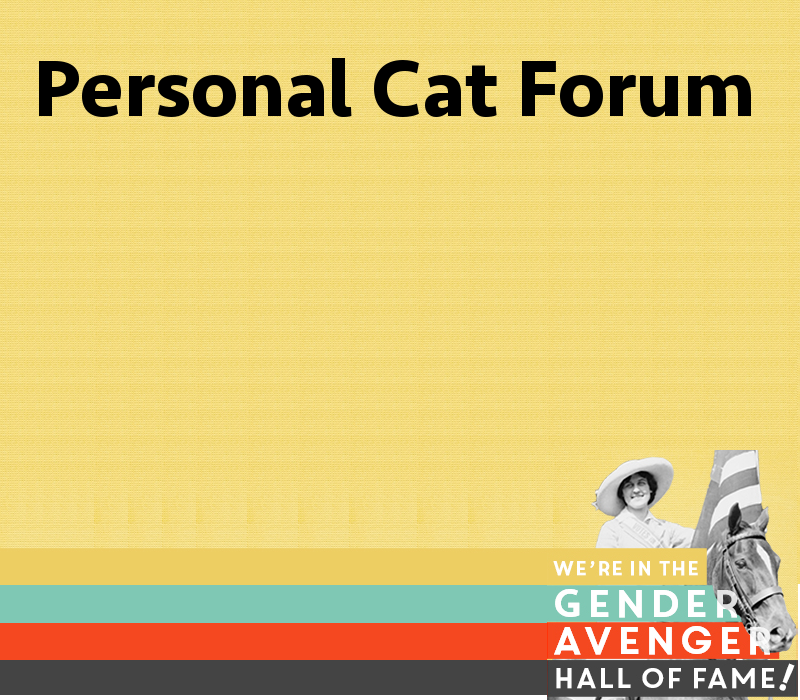
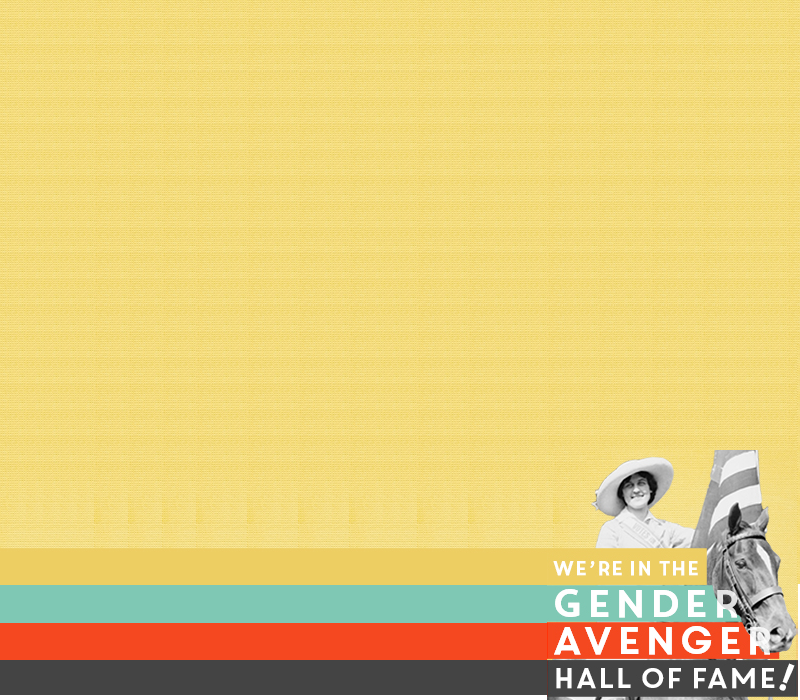
generate label for card

Changed region(s): [[0.4688, 0.09, 0.9375, 0.18], [0.0312, 0.06, 0.4375, 0.18]]

diff --git a/routes/index.js b/routes/index.js
@@ -16,8 +16,9 @@ exports.report = function (req, res) {
 
 ///// SUBMIT FORM TO THIS PAGE
 exports.submit = function (req, res) {
- var men = req.body.men,
-     women = req.body.women;
+ var men        = req.body.men,
+     women      = req.body.women,
+     label_text = req.body.label_text;
  
   // TODO: Add Validation and response
 
@@ -57,7 +58,8 @@ exports.submit = function (req, res) {
     response.on('end', function () {
 
       //ADD OUR BRANDING TO DOWNLOADED IMAGE
-      im.convert(['-page', '+0+0', 'assets/genderavenger_sample_template.png', '-page', '+100+150', chart_filename, '-layers', 'flatten', card_filename], 
+     // convert -gravity north -stroke '#4444' -font Helvetica-bold -pointsize 60 -strokewidth 2 -annotate +0+55 'Faerie Dragon' -page +0+0 assets/genderavenger_sample_template.png -page +100+150 assets/chartgen/da6cf241-feeb-4730-90b8-f36755a2028a_chart.png -layers flatten card.png
+      im.convert(['-gravity', 'north', '-stroke', '#444444', '-font', 'Helvetica-bold', '-pointsize', '60', '-strokewidth', '2', '-annotate', '+0+55', label_text, '-page', '+0+0', 'assets/genderavenger_sample_template.png', '-page', '+100+150', chart_filename, '-layers', 'flatten', card_filename], 
       function(err, stdout){
         if (err){
           throw err;
@@ -65,7 +67,7 @@ exports.submit = function (req, res) {
           console.log('stdout:', stdout);
 
           //upload that local file to  imgur
-          imgur.setClientID("FILL IN");
+          imgur.setClientID("ADD YOUR IMGUR ID");
           if(uploaded==false){
             imgur.upload(path.join(__dirname, '../' + card_filename),function(error, response){
               uploaded=true;

diff --git a/README.md b/README.md
@@ -6,3 +6,5 @@ push gender equality
 User provides a conference name and hashtag as well as the breakdown of male and female speakers.
 
 We return a shareable pie chart to illustrate their point.
+
+Requires imagemagick, ghostscript
